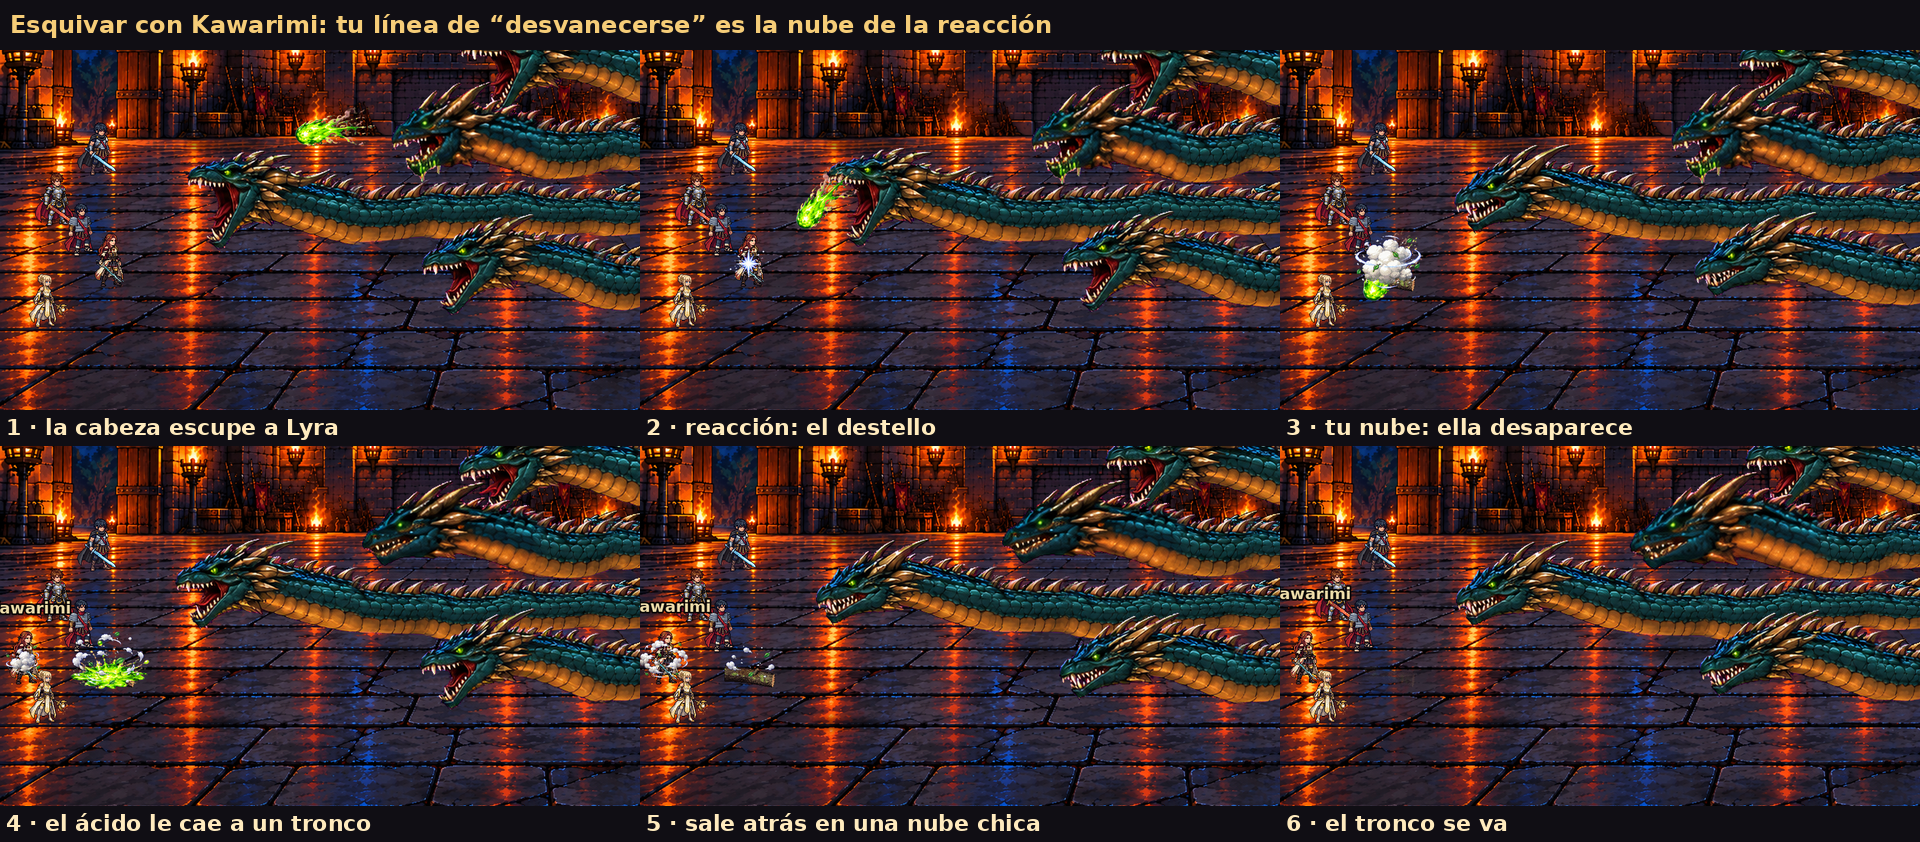
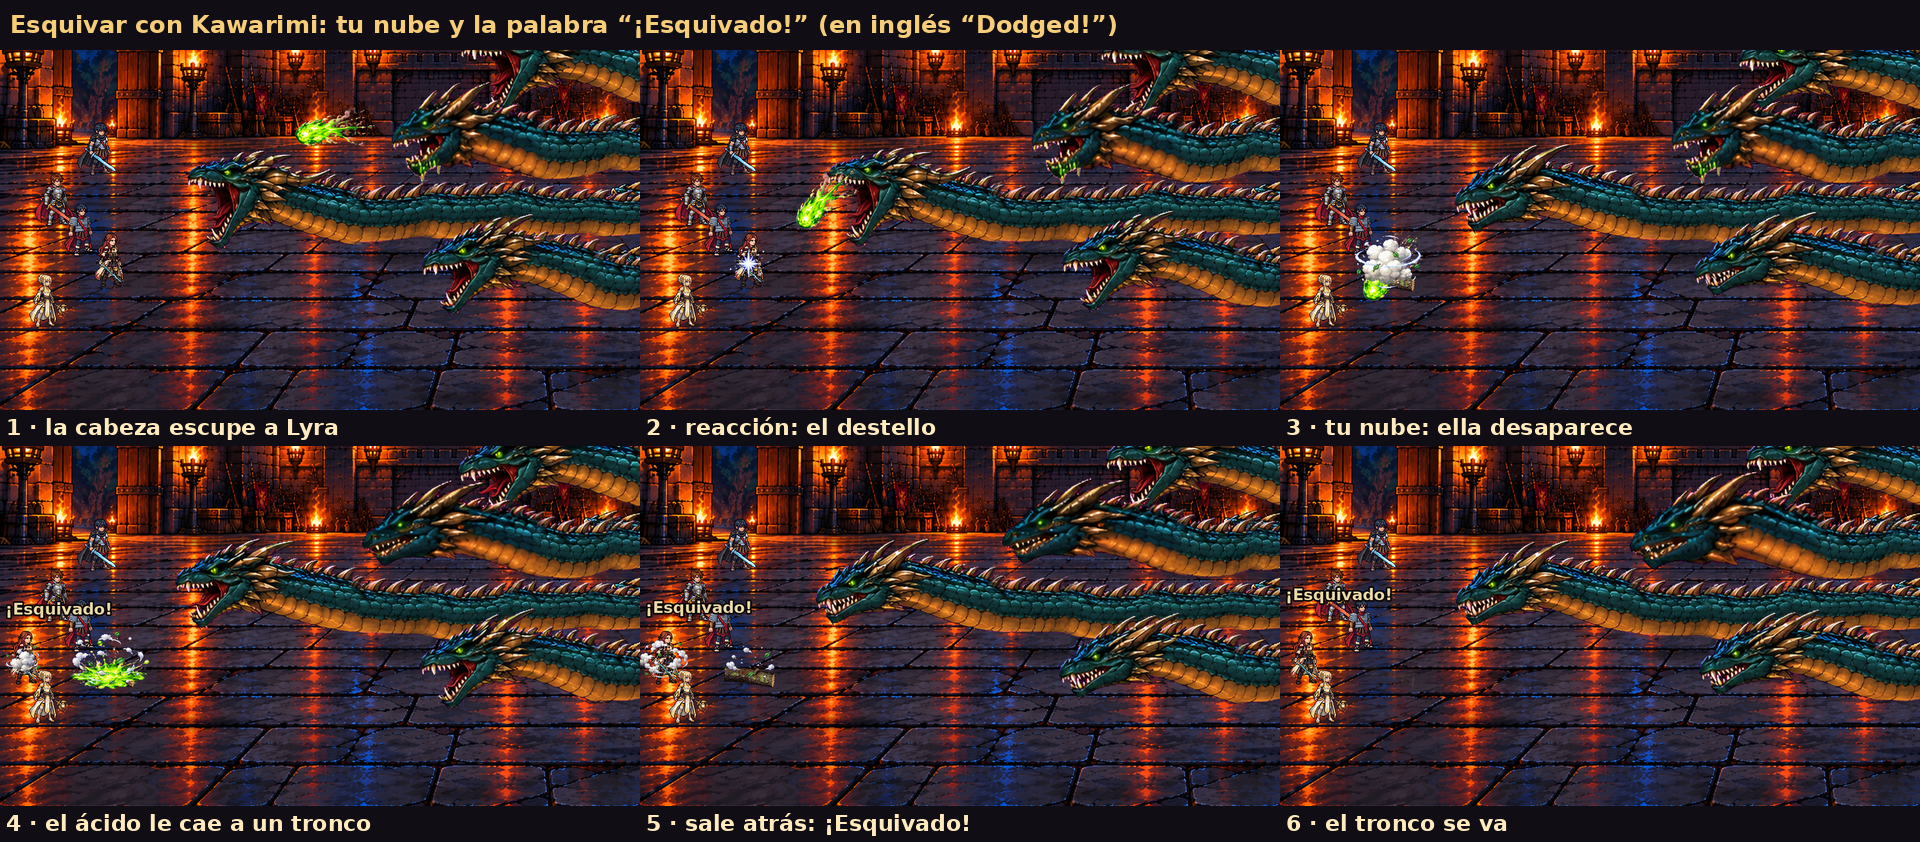
Kawarimi dodge approved; its word is ¡Esquivado! / Dodged!
Claude-Session: https://claude.ai/code/session_01EpW692ymKrP3N4xAnc5Ww8

diff --git a/tools/cinematics/hydra-summon/kawarimi_mock.py b/tools/cinematics/hydra-summon/kawarimi_mock.py
@@ -134,7 +134,7 @@ def emit(f, q):
         a = min(1, k / 5) * min(1, (40 - k) / 10)
         if a > 0:
             d = ImageDraw.Draw(img)
-            d.text((BXs - 70, BYs - 160 - k), 'Kawarimi', font=FB(30), fill=(233, 216, 166, int(255 * a)), stroke_width=3, stroke_fill=(10, 6, 6, int(255 * a)))
+            d.text((max(110, BXs), BYs - 130 - k), '¡Esquivado!', anchor='ms', font=FB(30), fill=(233, 216, 166, int(255 * a)), stroke_width=3, stroke_fill=(10, 6, 6, int(255 * a)))
     img.convert('RGB').save(f'{FD}/f{n:04d}.png')
     N[0] += 1
 

diff --git a/docs/GAMEPLAY_DESIGN.md b/docs/GAMEPLAY_DESIGN.md
@@ -56,7 +56,8 @@ elements.
   On screen (the owner, 2026-10-30): the "vanish" row of his ninja-leap effects sheet
   (`docs/reference/ninja-leap-fx-owner-reference.png`, row 3: the flash, the round cloud with
   leaves, its wisps) is the swap's cloud where the ninja stood, a log in its place takes the blow,
-  and the same cloud, smaller and quicker, where it comes out (`docs/mockups/kawarimi-dodge-cloud.png`).
+  and the same cloud, smaller and quicker, where it comes out, with the word **¡Esquivado!** /
+  **Dodged!** over it (approved by the owner 2026-10-30; the word was "Kawarimi!") (`docs/mockups/kawarimi-dodge-cloud.png`).
 - **Dice**: every roll shows as a quick d20 over the acting character, with a
   button to speed it up. The big dice window is kept for criticals and
   important checks. Checks and attacks show their % before rolling.
